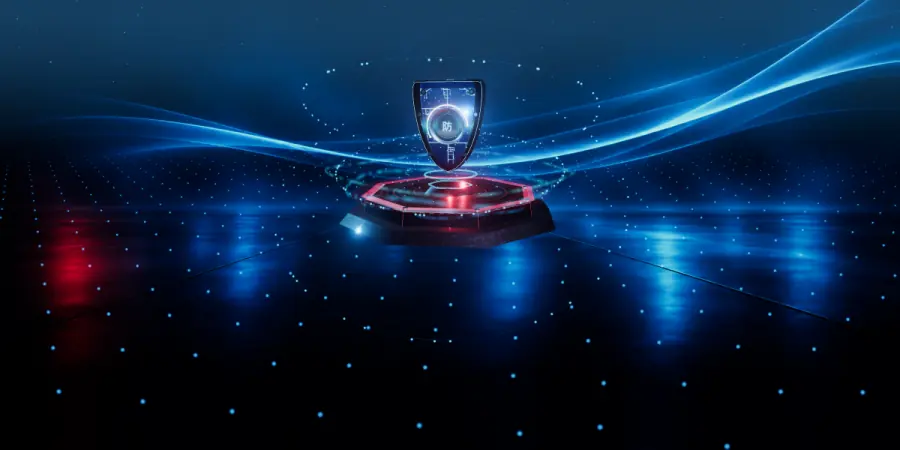
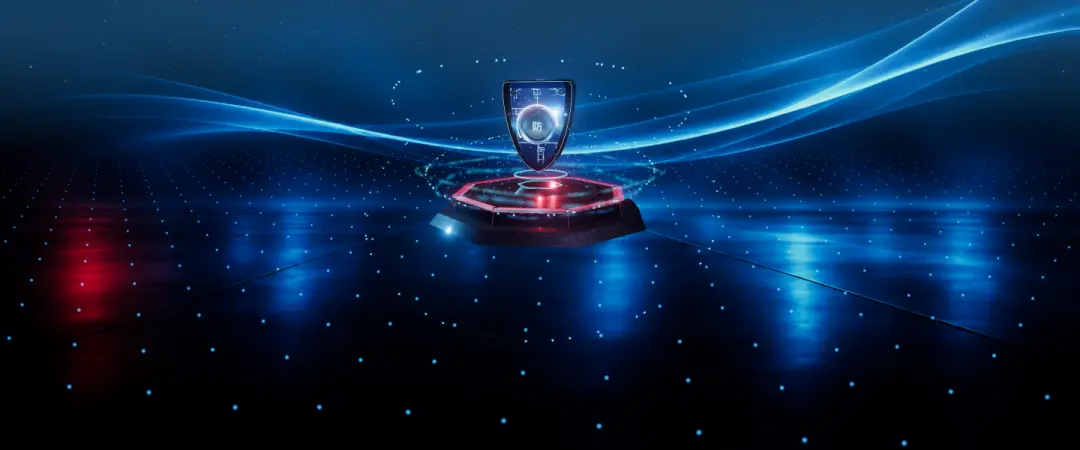
fix(登录): 校准宽屏和平板预览构图

diff --git a/grade-business/web/src/components/SignInScene.vue b/grade-business/web/src/components/SignInScene.vue
@@ -89,7 +89,7 @@ onUnmounted(() => {
 <template>
   <picture class="scene-preview" aria-hidden="true">
     <source :srcset="shortPreview"
-      media="(min-aspect-ratio: 1/1) and (max-width: 900px), (min-aspect-ratio: 1/1) and (max-height: 620px)">
+      media="(min-aspect-ratio: 1/2) and (max-width: 900px), (min-aspect-ratio: 1/2) and (max-height: 620px)">
     <source :srcset="portraitPreview" media="(max-width: 900px), (max-height: 620px)">
     <img :src="widePreview" alt="" fetchpriority="high" decoding="async">
   </picture>
